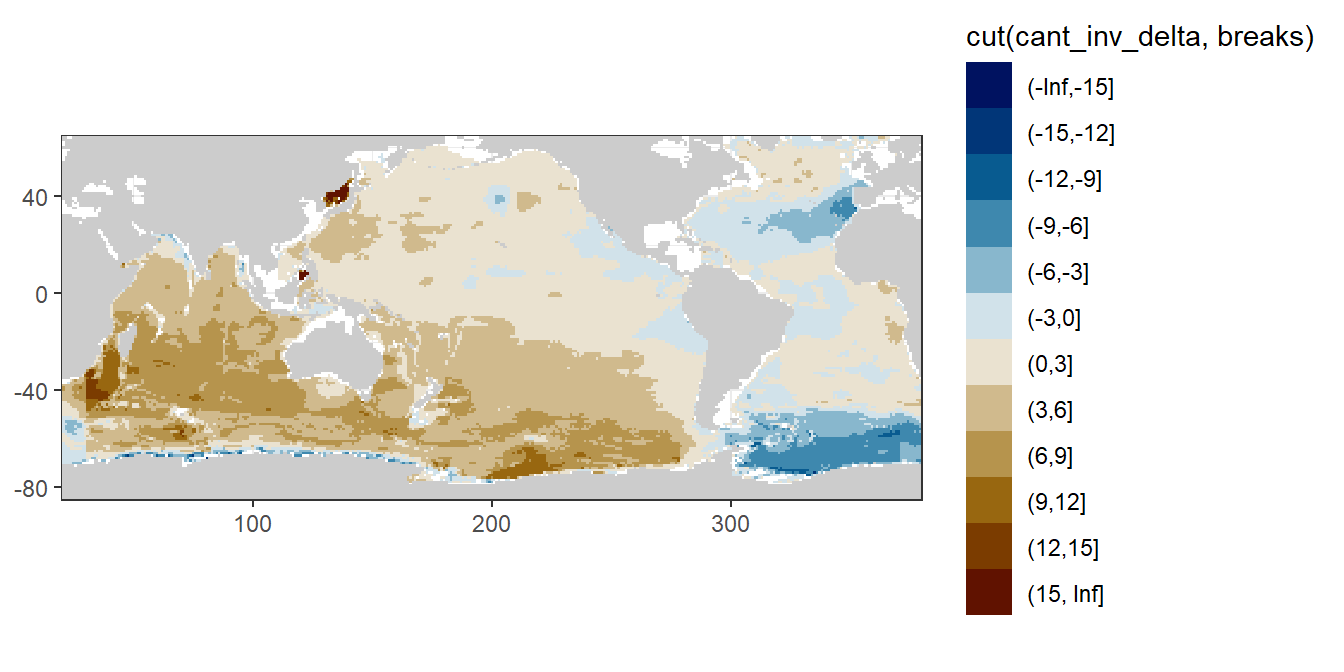
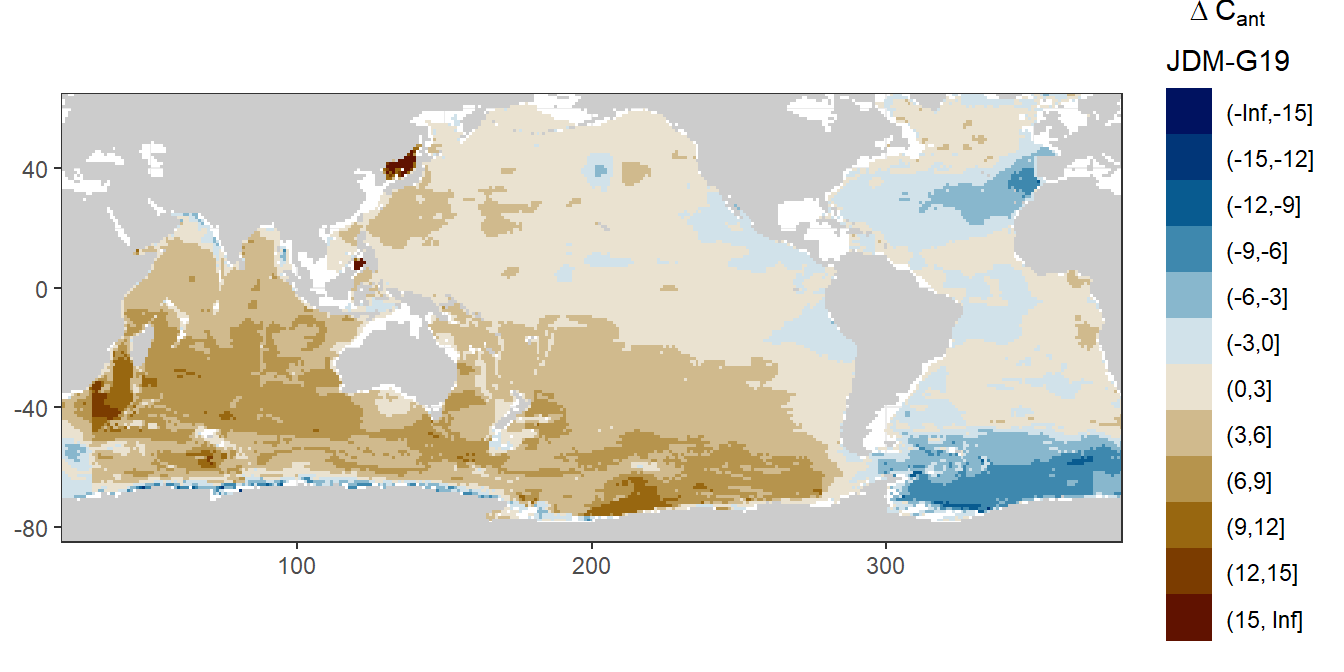
Build site.

diff --git a/docs/analysis_this_study_vs_Gruber_2019.html b/docs/analysis_this_study_vs_Gruber_2019.html
@@ -624,16 +624,16 @@ This reproducible <a href="http://rmarkdown.rstudio.com">R Markdown</a> analysis
 <div class="panel panel-default">
 <div class="panel-heading">
 <p class="panel-title">
-<a data-toggle="collapse" data-parent="#workflowr-checks" href="#strongRepositoryversionstrongahrefhttpsgithubcomjensdanielmuellerCanteMLRtree41acc9e8f1de63799b9ec2f46164a0a00caa1c35targetblank41acc9ea"> <span class="glyphicon glyphicon-ok text-success" aria-hidden="true"></span> <strong>Repository version:</strong> <a href="https://github.com/jens-daniel-mueller/Cant_eMLR/tree/41acc9e8f1de63799b9ec2f46164a0a00caa1c35" target="_blank">41acc9e</a> </a>
+<a data-toggle="collapse" data-parent="#workflowr-checks" href="#strongRepositoryversionstrongahrefhttpsgithubcomjensdanielmuellerCanteMLRtreebc94e5edf9a1cc377885f2fb6f5c3a4fb5879b5ctargetblankbc94e5ea"> <span class="glyphicon glyphicon-ok text-success" aria-hidden="true"></span> <strong>Repository version:</strong> <a href="https://github.com/jens-daniel-mueller/Cant_eMLR/tree/bc94e5edf9a1cc377885f2fb6f5c3a4fb5879b5c" target="_blank">bc94e5e</a> </a>
 </p>
 </div>
[2 lines of base64/hex data omitted]
 <div class="panel-body">
 <p>
 Great! You are using Git for version control. Tracking code development and connecting the code version to the results is critical for reproducibility.
 </p>
 <p>
-The results in this page were generated with repository version <a href="https://github.com/jens-daniel-mueller/Cant_eMLR/tree/41acc9e8f1de63799b9ec2f46164a0a00caa1c35" target="_blank">41acc9e</a>. See the <em>Past versions</em> tab to see a history of the changes made to the R Markdown and HTML files.
+The results in this page were generated with repository version <a href="https://github.com/jens-daniel-mueller/Cant_eMLR/tree/bc94e5edf9a1cc377885f2fb6f5c3a4fb5879b5c" target="_blank">bc94e5e</a>. See the <em>Past versions</em> tab to see a history of the changes made to the R Markdown and HTML files.
 </p>
 <p>
 Note that you need to be careful to ensure that all relevant files for the analysis have been committed to Git prior to generating the results (you can use <code>wflow_publish</code> or <code>wflow_git_commit</code>). workflowr only checks the R Markdown file, but you know if there are other scripts or data files that it depends on. Below is the status of the Git repository when the results were generated:
@@ -694,6 +694,40 @@ Message
 </tr>
 </thead>
 <tbody>
+<tr>
+<td>
+Rmd
+</td>
+<td>
+<a href="https://github.com/jens-daniel-mueller/Cant_eMLR/blob/bc94e5edf9a1cc377885f2fb6f5c3a4fb5879b5c/analysis/analysis_this_study_vs_Gruber_2019.Rmd" target="_blank">bc94e5e</a>
+</td>
+<td>
+jens-daniel-mueller
+</td>
+<td>
+2020-11-09
+</td>
+<td>
+updated legend title in map
+</td>
+</tr>
+<tr>
+<td>
+html
+</td>
+<td>
+<a href="https://rawcdn.githack.com/jens-daniel-mueller/Cant_eMLR/ccf66238da86903ea13a335ce0090bb62129be7e/docs/analysis_this_study_vs_Gruber_2019.html" target="_blank">ccf6623</a>
+</td>
+<td>
+jens-daniel-mueller
+</td>
+<td>
+2020-11-09
+</td>
+<td>
+Build site.
+</td>
+</tr>
 <tr>
 <td>
 Rmd
@@ -1617,7 +1651,8 @@ cant_inventory_wide %&gt;%
               aes(lon, lat), fill = &quot;grey80&quot;) +
   geom_raster(aes(lon, lat, fill = cut(cant_pos_inv_delta, breaks))) +
   scale_fill_scico_d(palette = &quot;vik&quot;, drop = FALSE,
-                     name = &quot;delta Cant&quot;) +
+                     name = expression(atop(Delta~C[ant],
+                                            &quot;JDM-G19&quot;))) +
   coord_quickmap(expand = 0) +
   theme(axis.title = element_blank())</code></pre>
 <p><img src="figure/analysis_this_study_vs_Gruber_2019.Rmd/cant_pos_delta_inventory_map-1.png" width="672" style="display: block; margin: auto;" /></p>
@@ -1793,7 +1828,9 @@ cant_inventory_wide %&gt;%
                 aes(lon, lat), fill = &quot;grey80&quot;) +
     geom_raster(aes(lon, lat, fill = cut(cant_inv_delta, breaks))) +
     coord_quickmap(expand = 0) +
-    scale_fill_scico_d(palette = &quot;vik&quot;, drop = FALSE) +
+    scale_fill_scico_d(palette = &quot;vik&quot;, drop = FALSE,
+                     name = expression(atop(Delta~C[ant],
+                                            &quot;JDM-G19&quot;))) +
     theme(axis.title = element_blank())</code></pre>
 <p><img src="figure/analysis_this_study_vs_Gruber_2019.Rmd/cant_delta_inventory_map-1.png" width="672" style="display: block; margin: auto;" /></p>
 </div>
